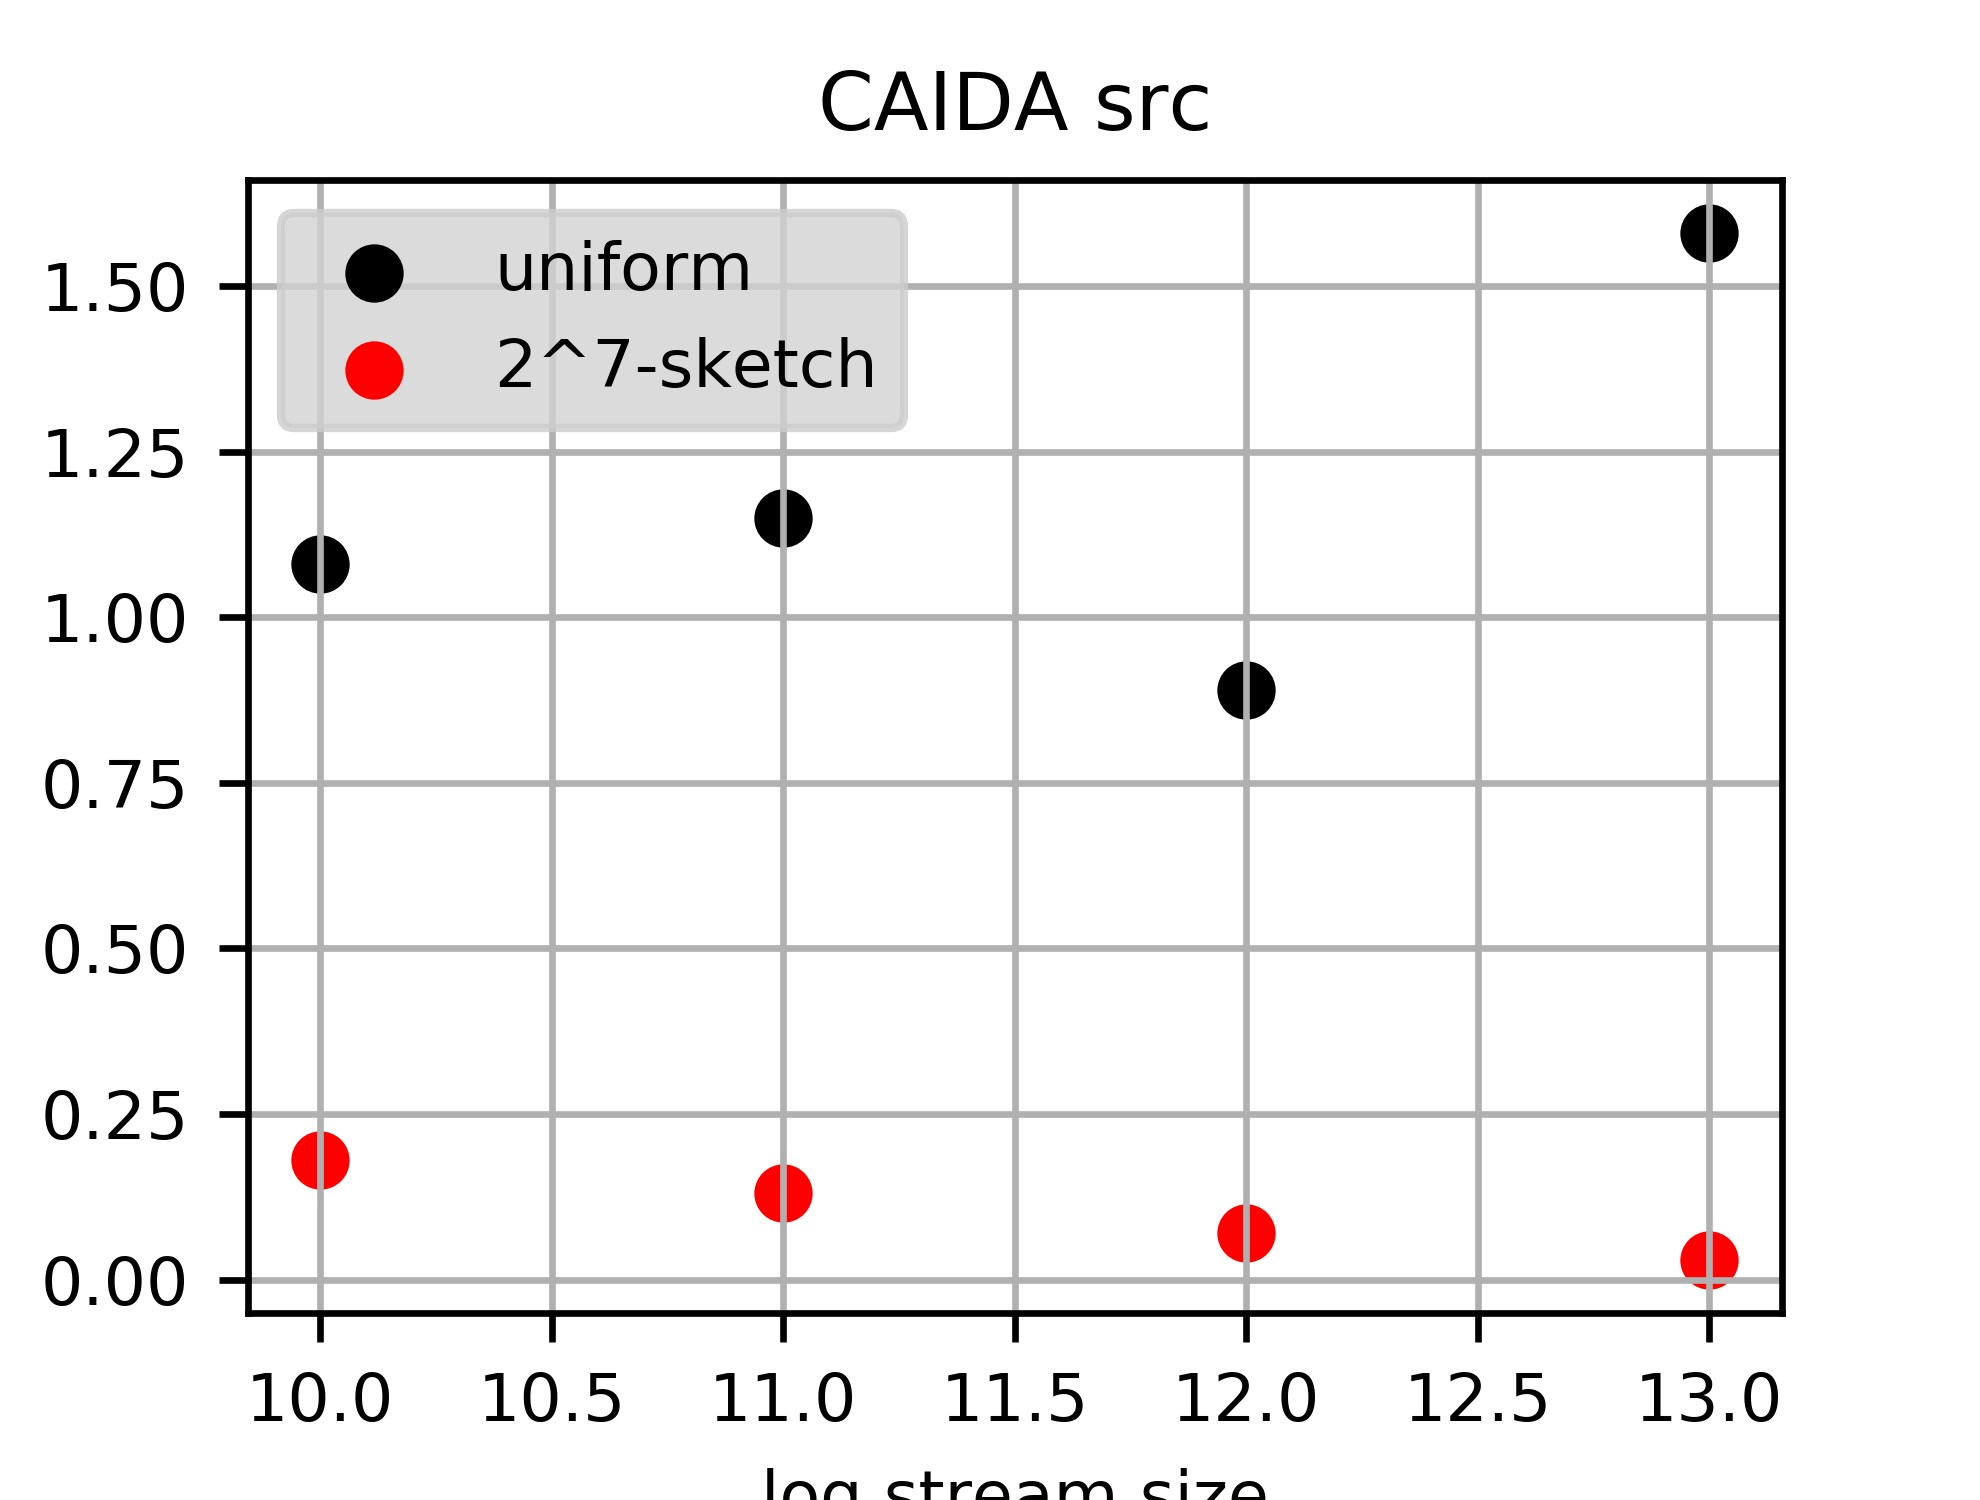
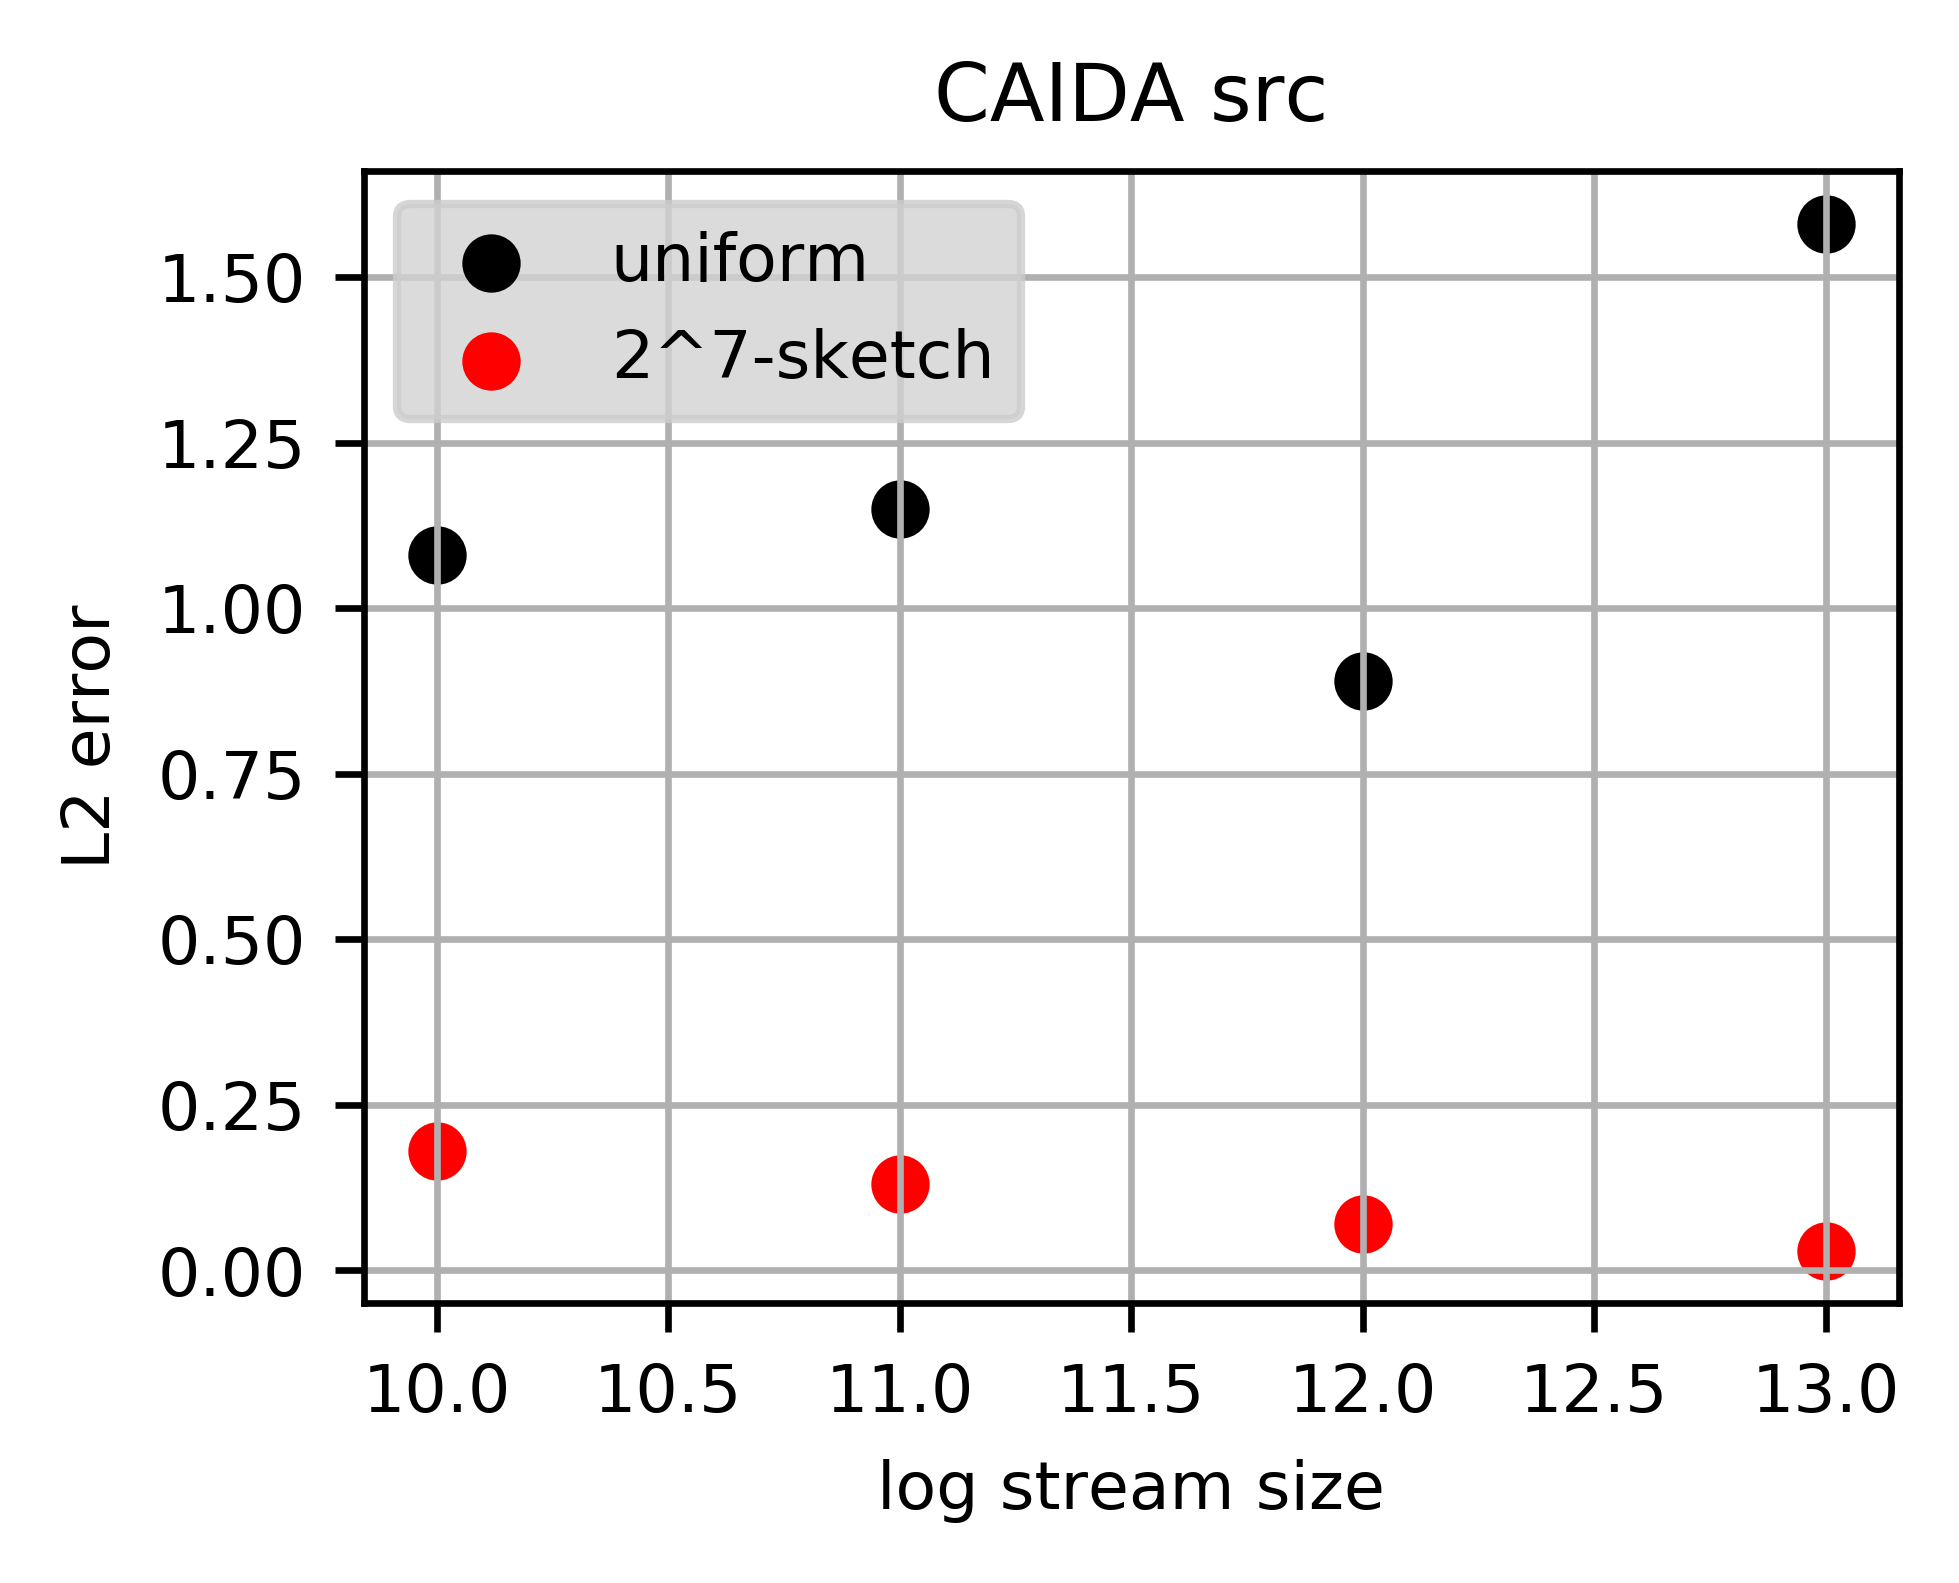
updated

Changed region(s): [[0.0, 0.0307, 0.9964, 1.0], [0.1246, 0.92, 0.218, 0.9507]]

diff --git a/util/plot.py b/util/plot.py
@@ -32,13 +32,13 @@ def get_pd(DATADIR, filename, FILE2=None, errbar=False, save=True,crVal=7):
         outs = [out,out2]
         normTypes = [normType, normType2]
         plot_topk_norms(ftr, outs, normTypes, crVal=crVal)
-        if save: plt.savefig(f'/home/swei20/SymNormSlidingWindows/imgs/{ftr}_{normType}{normType2}.png')
+        if save: plt.savefig(f'/home/swei20/SymNormSlidingWindows/imgs/{ftr}_{normType}{normType2}.png',bbox_inches = 'tight')
         return outs
     if loop=='mL':
         plot_error(ftr, out, normType, errbar,crVal=crVal)  
     elif loop == 'csL':
         plot_size_error(out, ftr, normType)
-    if save: plt.savefig(f'/home/swei20/SymNormSlidingWindows/imgs/{ftr}_{normType}_m.png')
+    if save: plt.savefig(f'/home/swei20/SymNormSlidingWindows/imgs/{ftr}_{normType}_m.png',bbox_inches = 'tight')
     return out,ftr,normType
 
 def plot_topk_norms(ftr, outs, normTypes, crVal=7):
